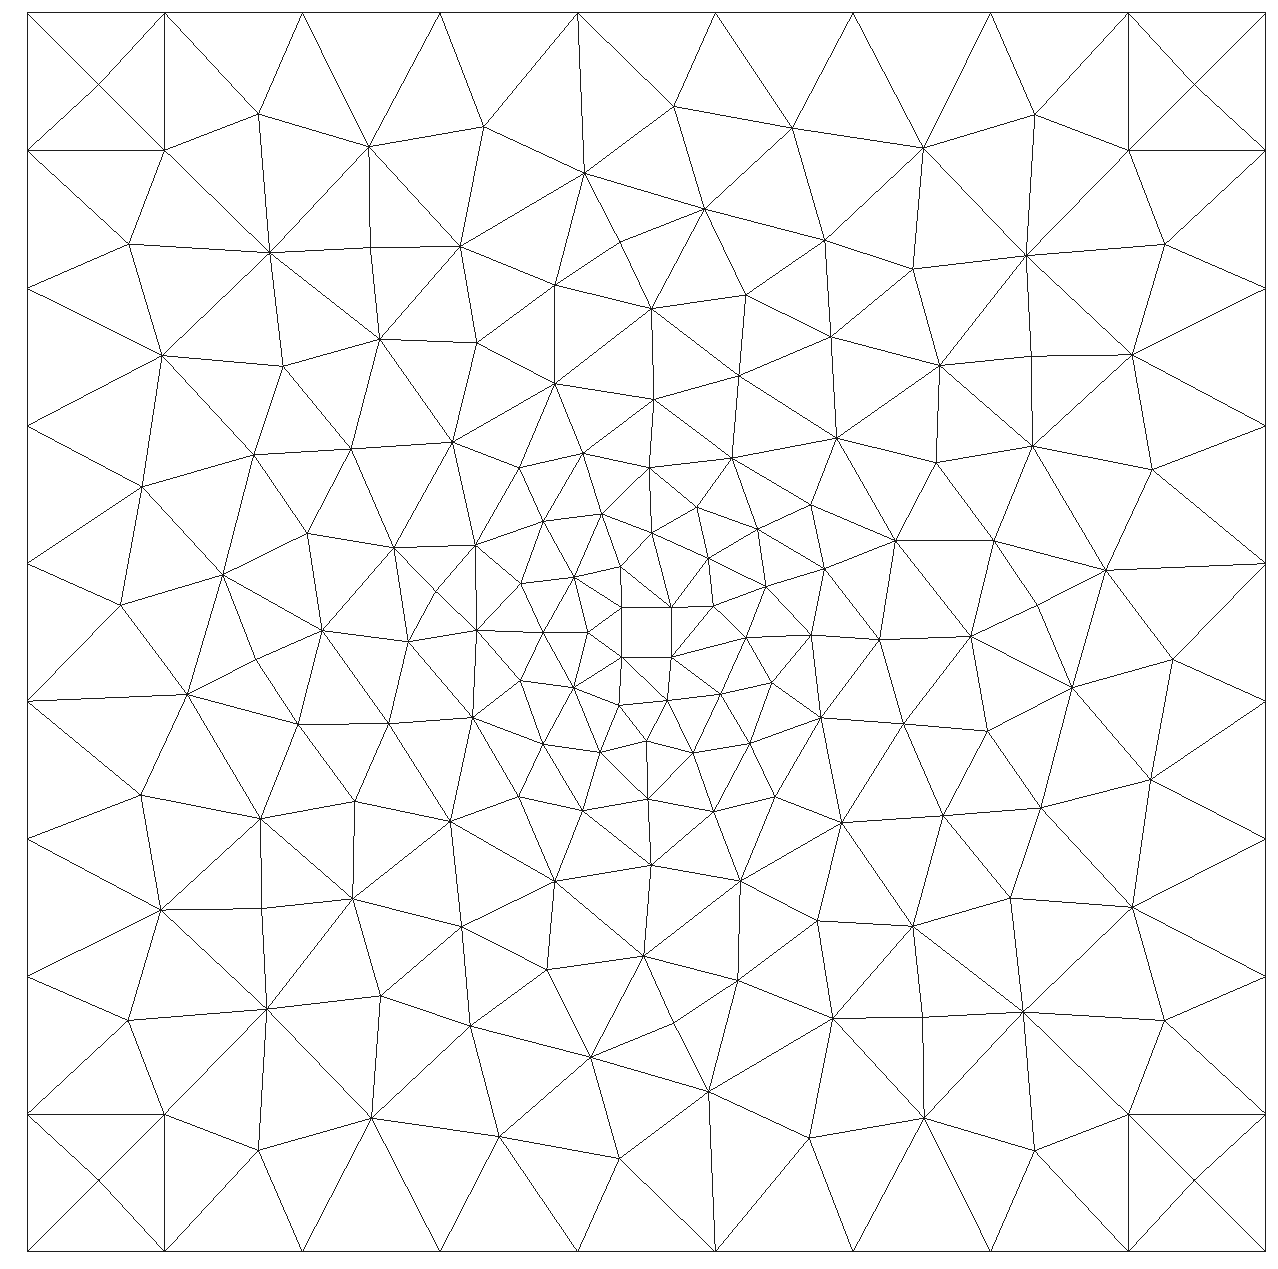
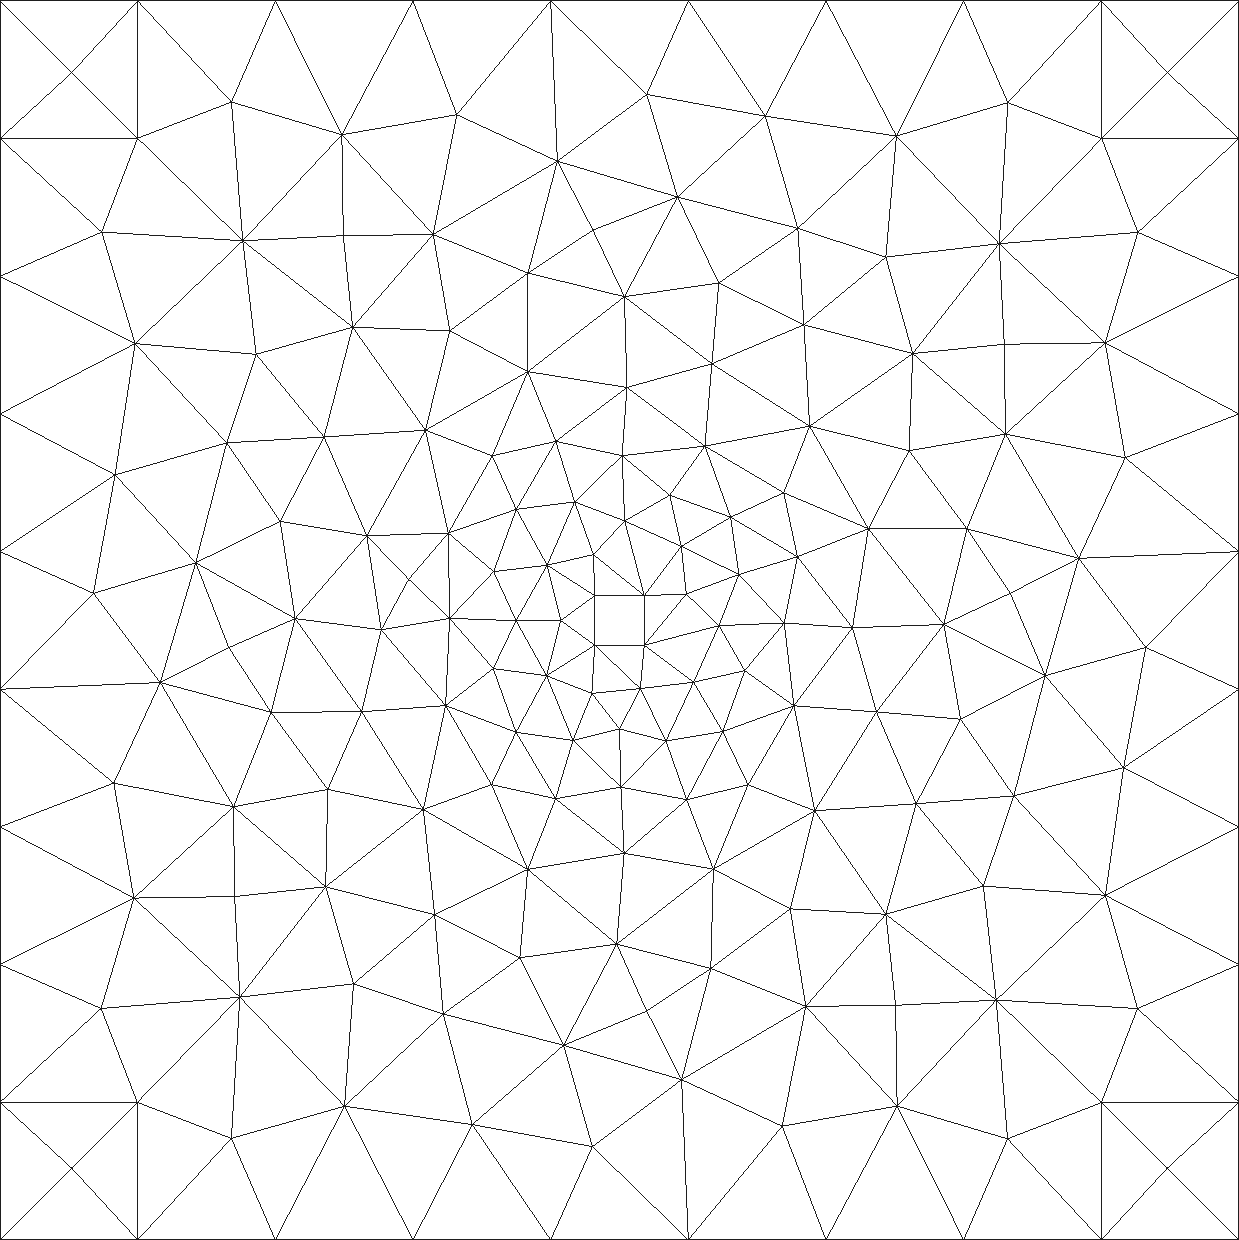
Added the plots for ADR.

diff --git a/Papers/Adaptivity/Results.tex b/Papers/Adaptivity/Results.tex
@@ -141,6 +141,57 @@ determine the effectivity of the adaptive algorithm.
     where $CFL=100$.
 
 \begin{test}[Diffusion Dominated, $\kappa = 0.1$] \label{tst:ADRk1E-1}
+    As a first test we take
+    \begin{align*}
+        \alpha &= 1, \\
+        \kappa &= 0.1, \\
+        \beta &= \begin{bmatrix} -1 \\ -1.61 \end{bmatrix}
+    \end{align*}
+    which corresponds to a diffusive solution.
+    \begin{figure}[h]
+        \centering
+        \begin{minipage}[t]{0.49\textwidth}
+            \centering
+            \subcaptionbox{Initial mesh}{
+                \includegraphics[scale=0.09]{Figures/AdaptiveADRkappa1E-1_mesh0.png}
+            }
+            \subcaptionbox{Primal solution at $t=10$.}{
+                \includegraphics[scale=0.1]{Figures/AdaptiveADRkappa1E-1_u0.png}
+            }
+            \subcaptionbox{Error indicators}{
+                \includegraphics[scale=0.1]{Figures/AdaptiveADRkappa1E-1_ei0.png}
+            }
+            \subcaptionbox{Dual solution at $t=0$.}{
+                \includegraphics[scale=0.1]{Figures/AdaptiveADRkappa1E-1_uDual0.png}
+            }
+        \end{minipage}
+        \begin{minipage}[t]{0.49\textwidth}
+            \centering
+            \subcaptionbox{$25^{th}$ adaptive mesh}{
+                \includegraphics[scale=0.09]{Figures/AdaptiveADRkappa1E-1_mesh25.png}
+            }
+            \subcaptionbox{Primal solution at $t=10$.}{
+                \includegraphics[scale=0.1]{Figures/AdaptiveADRkappa1E-1_u25.png}
+            }
+            \subcaptionbox{Error indicators}{
+                \includegraphics[scale=0.1]{Figures/AdaptiveADRkappa1E-1_ei25.png}
+            }
+            \subcaptionbox{Dual solution at $t=0$.}{
+                \includegraphics[scale=0.1]{Figures/AdaptiveADRkappa1E-1_uDual25.png}
+            }
+        \end{minipage}
+        \caption{Comparison of the Initial Mesh (Left), $190$ DOFs, to the
+                 $25^{th}$ Adaptive mesh (Right), $7\, 906$ DoFs, for ADR Small
+                 Hole problem with $\kappa=0.1$.}
+    \end{figure}
+
+    \begin{figure}[h]
+        \centering
+        \includegraphics[scale=0.5]{Figures/AdaptiveADRkappa1E-1.png}
+        \caption{Adaptive error estimate versus ``true'' error for the solution
+            for the ADR equation with $\kappa=0.1$.}
+        \label{fig:ADRk1E-1_err}
+    \end{figure}
 \end{test}
 
 \begin{test}[Convection Dominated, $\kappa = 1\times10^{-5}$] \label{tst:ADRk1E-5}
@@ -149,44 +200,45 @@ determine the effectivity of the adaptive algorithm.
         \centering
         \begin{minipage}[t]{0.49\textwidth}
             \centering
-            \subcaptionbox{Initial mesh, $190$ DoFs.}{
+            \subcaptionbox{Initial mesh}{
                 \includegraphics[scale=0.09]{Figures/AdaptiveADRkappa1E-5_mesh0.png}
             }
-            \subcaptionbox{Primal solution, $190$ DoFs, at $t=10$.}{
+            \subcaptionbox{Primal solution at $t=10$.}{
                 \includegraphics[scale=0.1]{Figures/AdaptiveADRkappa1E-5_u0.png}
             }
             \subcaptionbox{Error indicators, $190$ DoFs.}{
                 \includegraphics[scale=0.1]{Figures/AdaptiveADRkappa1E-5_ei0.png}
             }
-            \subcaptionbox{Dual solution at $t=10$, $190$ DoFs.}{
+            \subcaptionbox{Dual solution at $t=0$.}{
                 \includegraphics[scale=0.1]{Figures/AdaptiveADRkappa1E-5_uDual0.png}
             }
         \end{minipage}
         \begin{minipage}[t]{0.49\textwidth}
             \centering
-            \subcaptionbox{$25^{th}$ mesh, $39\, 044$ DoFs.}{
+            \subcaptionbox{$25^{th}$ adaptive mesh}{
                 \includegraphics[scale=0.09]{Figures/AdaptiveADRkappa1E-5_mesh25.png}
             }
-            \subcaptionbox{Primal solution, $39\, 044$ DoFs, at $t=10$.}{
+            \subcaptionbox{Primal solution at $t=0$.}{
                 \includegraphics[scale=0.1]{Figures/AdaptiveADRkappa1E-5_u25.png}
             }
-            \subcaptionbox{Error indicators, $39\, 044$ DoFs.}{
+            \subcaptionbox{Error indicators}{
                 \includegraphics[scale=0.1]{Figures/AdaptiveADRkappa1E-5_ei25.png}
             }
-            \subcaptionbox{Dual solution, $39\, 044$ DoFs, at $t=10$.}{
+            \subcaptionbox{Dual solution at $t=0$.}{
                 \includegraphics[scale=0.1]{Figures/AdaptiveADRkappa1E-5_uDual25.png}
             }
         \end{minipage}
-        \caption{Results for ADR Small Hole problem with
-            $\kappa=1\times10^{-5}$.}
+        \caption{Comparison of the Initial Mesh (Left), $190$ DOFs, to the
+                 $25^{th}$ Adaptive mesh (Right), $39\, 044$ DoFs, for ADR Small
+                 Hole problem with $\kappa=1\times 10^{-5}$.}
     \end{figure}
 
     \begin{figure}[h]
         \centering
         \includegraphics[scale=0.5]{Figures/AdaptiveADRkappa1E-5.png}
         \caption{Adaptive error estimate versus ``true'' error for the solution
-            for the ADR equation.}
-        \label{fig:ADR_err}
+            for the ADR equation with $\kappa=1\times 10^{-5}$.}
+        \label{fig:ADRk1E-5_err}
     \end{figure}
 
 \end{test}
